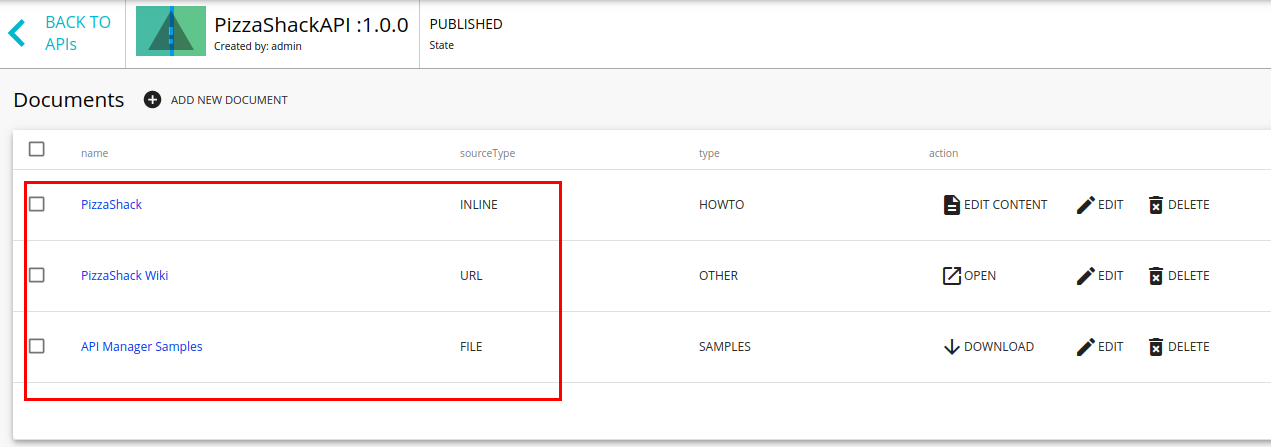
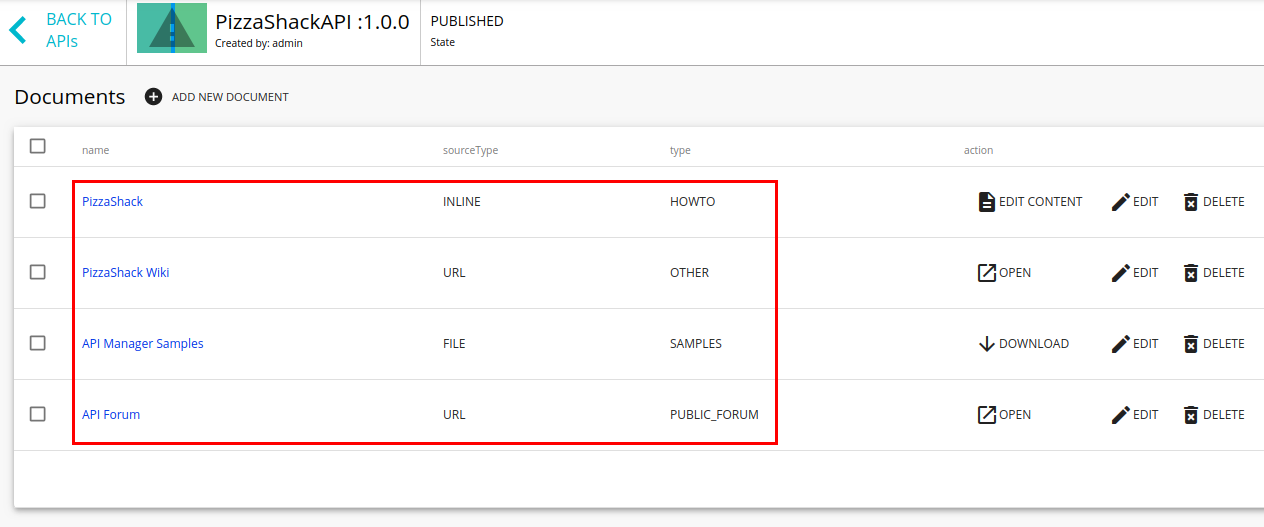
Add guidlines for adding a forum to an API

diff --git a/en/docs/Learn/DesignAPI/APIDocumentation/add-api-documentation.md b/en/docs/Learn/DesignAPI/APIDocumentation/add-api-documentation.md
@@ -5,7 +5,7 @@
 The documentation types supported in the API Publisher are as follows:
 
 -   **In-line** : Hosts documentation (How-tos, Samples, SDK, forums etc.) in WSO2 API Publisher itself and allows it to be edited directly from the UI.
--   **URL** : Links to file references (URLs) of an external configuration management system.
+-   **URL** : Links of public or support forums or file references (URLs) of an external configuration management system.
 -   **File:** Allows to upload the documentation directly to the server.
 -   Using the integrated API Console
 
@@ -50,9 +50,39 @@ Follow the steps below to learn how to add a documentation to an API.
 
 4.  **Add documentation using a URL** .
 
+    You can use either **Public Forum**, **Support Forum** or **Other** types to add documentation using a URL.
+
     1.  Click **Add New Document** to add another doc type.
 
-    2.  Enter the following information to create another doc using a URL.
+    2.  Enter the following information to create another doc using a URL of a Public or Support forum.
+
+        <table>
+        <tbody>
+        <tr class="odd">
+        <td>Name</td>
+        <td>API Forum</td>
+        </tr>
+        <tr class="even">
+        <td>Summary</td>
+        <td><div class="company-logo-container">
+        <p>Forum to discuss about APIs</p>
+        </div></td>
+        </tr>
+        <tr class="odd">
+        <td>Type</td>
+        <td>Public Forum/Support Forum</td>
+        </tr>
+        <tr class="even">
+        <td>Source</td>
+        <td>URL<br />
+        <a href="http://www.dummyforum.com" class="uri">http://www.dummyforum.com</a></td>
+        </tr>
+        </tbody>
+        </table>
+
+        ![](../../../assets/img/Learn/add-docs-forum-type.png)
+
+    3.  Enter the following information to create another doc using a URL. This can be used if you want to add a documentation using Other type pointing to a link to a file reference of an external source.
 
         <table>
         <tbody>
@@ -72,9 +102,9 @@ Follow the steps below to learn how to add a documentation to an API.
         </tr>
         <tr class="even">
         <td>Other Document Type</td>
-        <td>Other</td>
+        <td>Other (Provide a type as required)</td>
         </tr>
-        <tr class="eveoddn">
+        <tr class="even">
         <td>Source</td>
         <td>URL<br />
         <a href="http://www.dummy.com/PizzaShackAPIDoc.pdf" class="uri">http://www.dummy.com/PizzaShackAPIDoc.pdf</a></td>
@@ -84,7 +114,7 @@ Follow the steps below to learn how to add a documentation to an API.
 
         ![](../../../assets/img/Learn/add-docs-url-type.png)
 
-    3.  Click **Add Document** .
+    4.  Click **Add Document** .
         The API's **Documents** tab opens.
 
 5.  **Add documentation using a file** .
@@ -103,14 +133,15 @@ Follow the steps below to learn how to add a documentation to an API.
         ![](../../../assets/img/Learn/add-docs-pdf-file.png)
 
     3.  Click **Add Document** .
-        You have now added three documents to the API: in-line, using a URL, and a file.
+    
+6. You have now added three documents to the API: in-line, using a URL, and a file.
         ![](../../../assets/img/Learn/add-docs-all.png)
 
-6.  Log in to the WSO2 Developer Portal and click the `PizzaShackAPI` 1.0.0 version.
+7.  Log in to the WSO2 Developer Portal and click the `PizzaShackAPI` 1.0.0 version.
 `https://<hostname>:9443/devportal         `
     ![](../../../assets/img/Learn/view-docs-devportal.png)
 
-7.  Go to the API's **Documentation** tab and see the documents listed by type.
+8.  Go to the API's **Documentation** tab and see the documents listed by type.
     Click the links to see the documentation content. As a subscriber, you can read the documentation and learn about the API.
     ![](../../../assets/img/Learn/view-docs-api.png)
 
